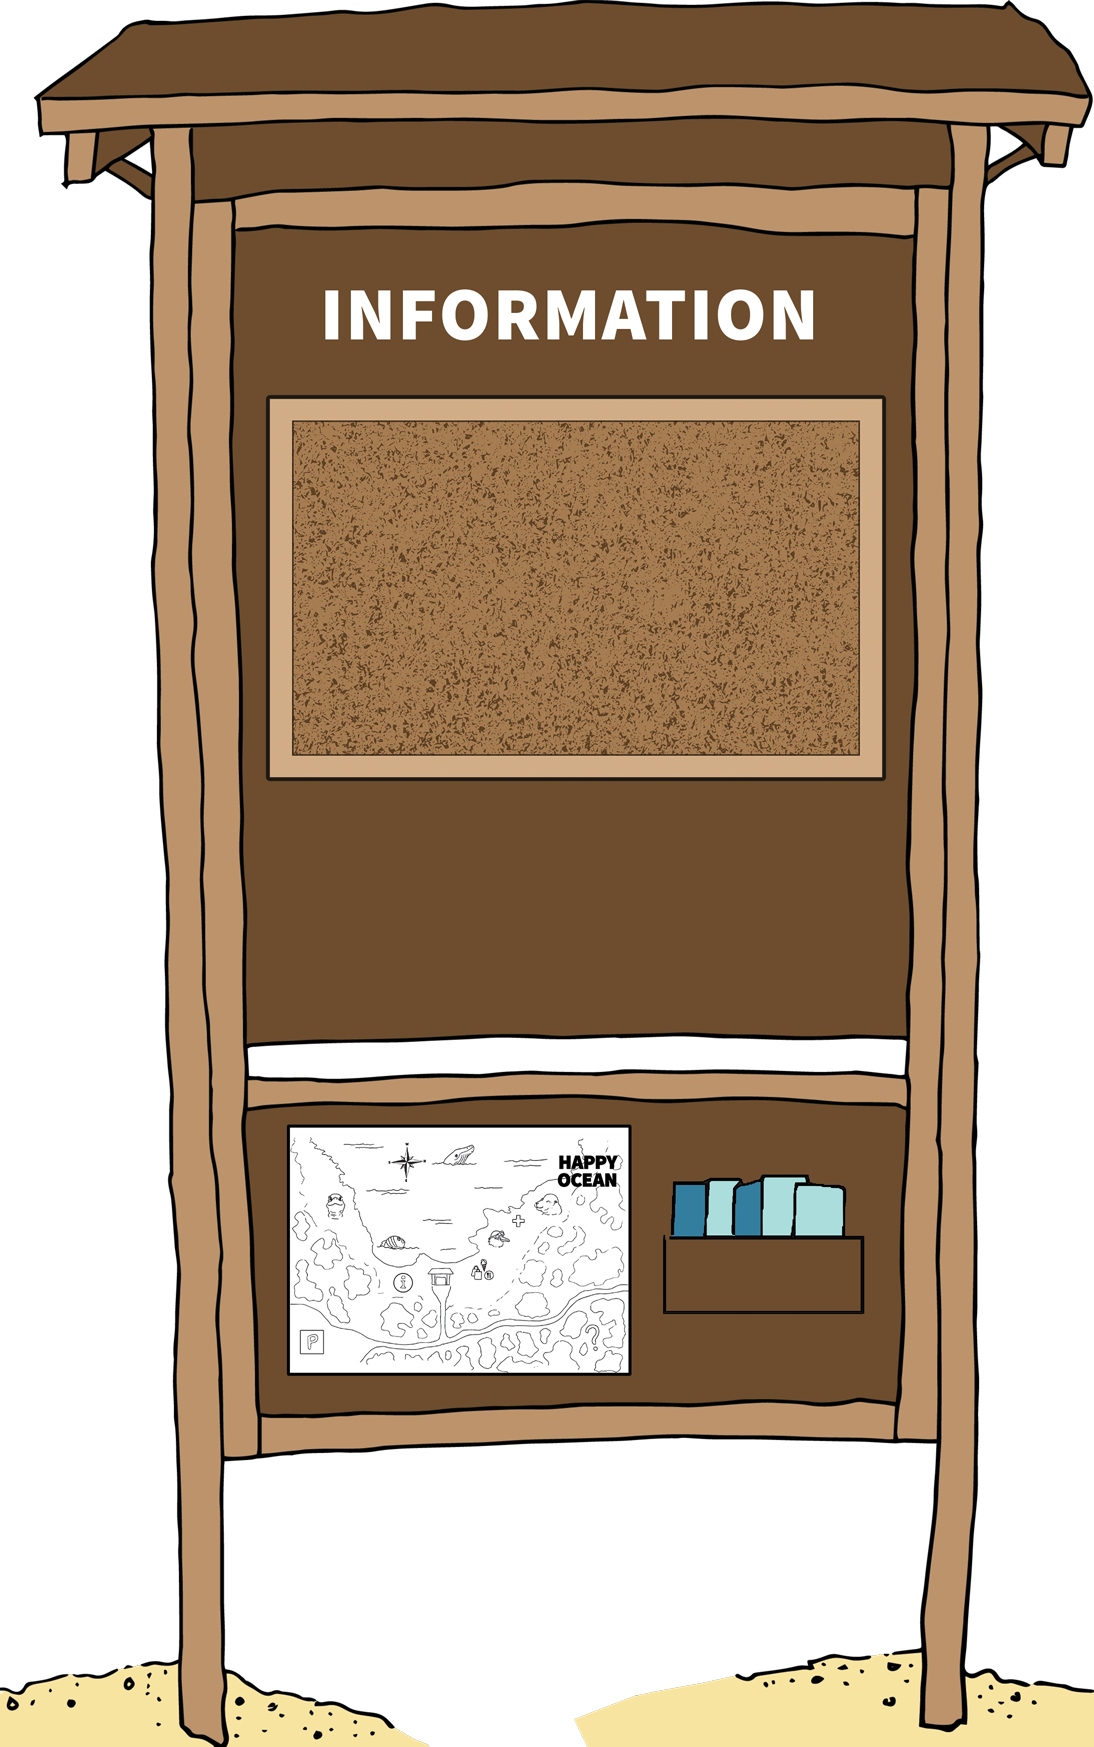
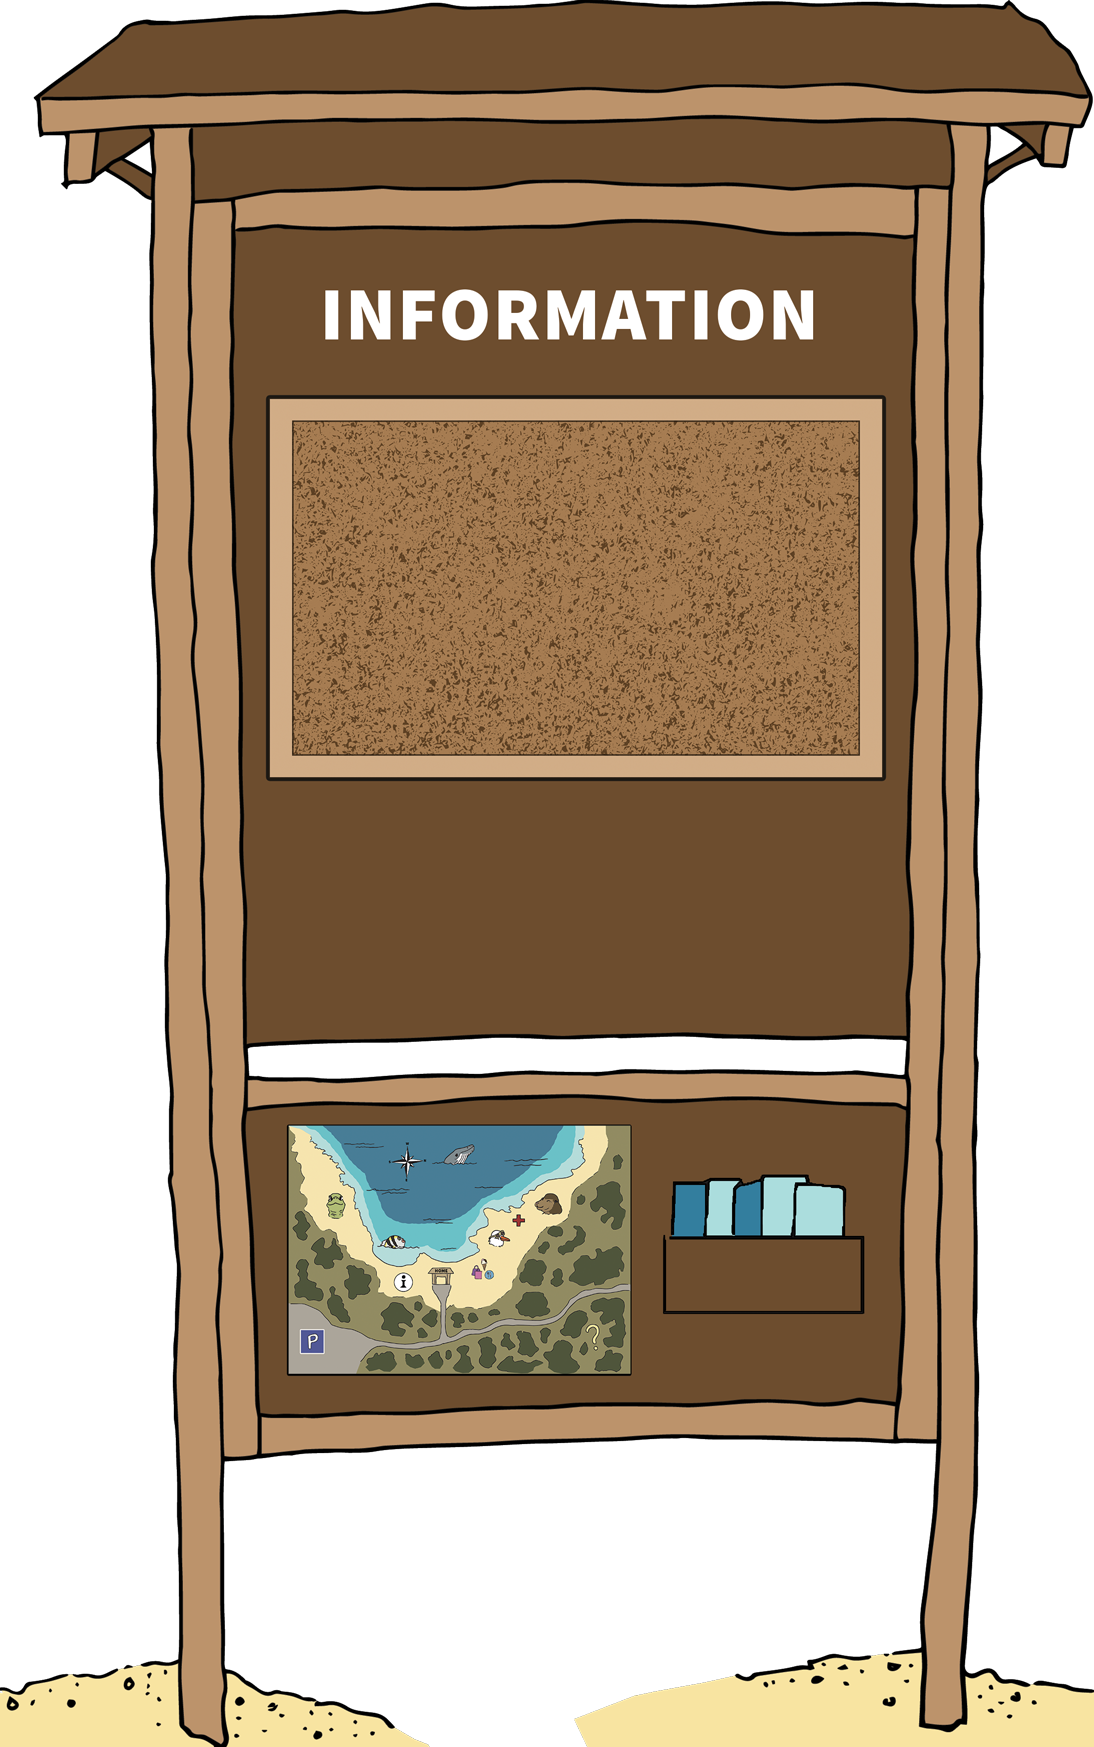
Updates

Changed region(s): [[0.2486, 0.6182, 0.5905, 0.8037]]

diff --git a/index.html b/index.html
@@ -16,35 +16,75 @@
 		</figure>			
 		</div>		
 			<main id="home" class="home">
-				<nav id="mapopen" class="nav">
-					<figure id="open" class="map-icon">
-						<img src="img/map-icon.png" alt="map icon">
-					</figure>
-				</nav>		
-				<div id="mapNav" class="sidenav">
-					<a href="javascript:void(0)" id="closebtn">&times;</a>
-					<ul id="list" class="map-list">
-						<li><a href="index.html">HOME</a></li>
-						<li id="about"><a href="javascript:void(0)">ABOUT</a></li>
-						<li><a href="resources.html">INFO</a></li>
-						<li><a href="shop.html">SHOP</a></li>
-						<li>BEACH CLEANUP
-							<ul>
-								<li><a href="albatross.html">ALBATROSS</a></li>
-								<li><a href="#">SEA LION</a></li>
-								<li><a href="#">SEA TURTLE</a></li>
-								<li><a href="#">FISH</a></li>
-								<li><a href="#">WHALE</a></li>
-							</ul>
-						</li>
-					</ul>				
+			<nav id="mapopen" class="nav">
+				<figure id="open" class="map-icon">
+					<img src="img/map-icon.png" alt="map icon">
+				</figure>
+			</nav>		
+			<div id="mapNav" class="sidenav">
+				<a href="javascript:void(0)" id="closebtn">&times;</a>
+				<ul id="list" class="map-list">
+					<li><a href="home.html">HOME</a></li>
+					<li id="about"><a href="javascript:void(0)">ABOUT</a></li>
+					<li><a href="info.html">INFO</a></li>
+					<li><a href="shop.html">SHOP</a></li>
+					<p>BEACH CLEANUP</p>
+					<li id="albatrossMapNav"><a href="albatross.html">ALBATROSS</a></li>
+					<li id="sealionMapNav"><a href="#">SEA LION</a></li>
+					<li><a href="#">SEA TURTLE</a></li>
+					<li><a href="#">FISH</a></li>
+					<li><a href="#">WHALE</a></li>
+					<br>
+					<p>(You can also click or tap the icons on the map to navigate.)</p>
+				</ul>	
+<!-- MAP AREAS -->
+			<a href="albatross.html">
+				<div id="albatrossOnMap" class="albatross-map">
 				</div>
+			</a>
+			<a href="#">
+				<div id="sealionOnMap" class="sealion-map">
+				</div>
+			</a>						
+			</div>
+			<a href="#">
+				<div id="seaturtleOnMap" class="seaturtle-map">
+				</div>
+			</a>						
+			</div>
+			<a href="#">
+				<div id="fishOnMap" class="fish-map">
+				</div>
+			</a>						
+			</div>	
+			<a href="#">
+				<div id="whaleOnMap" class="whale-map">
+				</div>
+			</a>						
+			</div>
+			<a href="shop.html">
+				<div id="shopOnMap" class="shop-map">
+				</div>
+			</a>						
+			</div>
+			<a href="info.html">
+				<div id="infoOnMap" class="info-map">
+				</div>
+			</a>						
+			</div>
+			<a href="index.html">
+				<div id="homeOnMap" class="home-map">
+				</div>
+			</a>						
+			</div>
+			
+<!-- ABOUT BROCHURE -->
 				<div id="brochure" class="brochure">
 					<a href="javascript:void(0)" id="aboutclosebtn">&times;</a>	
 					<ul id="aboutlist" class="about-list">
 						<li><a href="javascript:void(0)" id="revealmap">BACK TO MAP</a></li>
 					</ul>	
-				</div>
+				</div>				
 				<section class="centered">
 					<figure>
 						<img class="mascots" src="img/mascots.png" alt="mascots">

diff --git a/albatross.html b/albatross.html
@@ -12,34 +12,69 @@
 
 	<body>
 		<main id="albatrossBackground" class="albatross">
-			<div id="popup" title="Uh-oh!">
-				<p>What happened? Help bring color back to Happy Ocean by cleaning up the beach! Click on pieces of trash you find and drag them to your Happy Ocean tote bag.</p> 
-				<p>To play again, click on the <i class="fas fa-recycle"></i> logo!</p>
-				<p><em>A happy ocean is a clean ocean!</em></p>
-			</div>			
-			<nav id="mapopen" class="nav" onclick="openNav()">
+			<nav id="mapopen" class="nav">
 				<figure id="open" class="map-icon">
 					<img src="img/map-icon.png" alt="map icon">
 				</figure>
 			</nav>		
 			<div id="mapNav" class="sidenav">
-				<a href="javascript:void(0)" id="closebtn" onclick="closeNav()">&times;</a>
+				<a href="javascript:void(0)" id="closebtn">&times;</a>
 				<ul id="list" class="map-list">
-					<li><a href="index.html">HOME</a></li>
+					<li><a href="home.html">HOME</a></li>
 					<li id="about"><a href="javascript:void(0)">ABOUT</a></li>
-					<li><a href="resources.html">INFO</a></li>
+					<li><a href="info.html">INFO</a></li>
 					<li><a href="shop.html">SHOP</a></li>
-					<li>BEACH CLEANUP
-						<ul>
-							<li><a href="albatross.html">ALBATROSS</a></li>
-							<li><a href="#">SEA LION</a></li>
-							<li><a href="#">SEA TURTLE</a></li>
-							<li><a href="#">FISH</a></li>
-							<li><a href="#">WHALE</a></li>
-						</ul>
-					</li>
-				</ul>				
+					<p>BEACH CLEANUP</p>
+					<li id="albatrossMapNav"><a href="albatross.html">ALBATROSS</a></li>
+					<li id="sealionMapNav"><a href="#">SEA LION</a></li>
+					<li><a href="#">SEA TURTLE</a></li>
+					<li><a href="#">FISH</a></li>
+					<li><a href="#">WHALE</a></li>
+					<br>
+					<p>(You can also click or tap the icons on the map to navigate.)</p>
+				</ul>	
+<!-- MAP AREAS -->
+			<a href="albatross.html">
+				<div id="albatrossOnMap" class="albatross-map">
+				</div>
+			</a>
+			<a href="#">
+				<div id="sealionOnMap" class="sealion-map">
+				</div>
+			</a>						
 			</div>
+			<a href="#">
+				<div id="seaturtleOnMap" class="seaturtle-map">
+				</div>
+			</a>						
+			</div>
+			<a href="#">
+				<div id="fishOnMap" class="fish-map">
+				</div>
+			</a>						
+			</div>	
+			<a href="#">
+				<div id="whaleOnMap" class="whale-map">
+				</div>
+			</a>						
+			</div>
+			<a href="shop.html">
+				<div id="shopOnMap" class="shop-map">
+				</div>
+			</a>						
+			</div>
+			<a href="info.html">
+				<div id="infoOnMap" class="info-map">
+				</div>
+			</a>						
+			</div>
+			<a href="index.html">
+				<div id="homeOnMap" class="home-map">
+				</div>
+			</a>						
+			</div>
+			
+<!-- ABOUT BROCHURE -->
 			<div id="brochure" class="brochure">
 				<a href="javascript:void(0)" id="aboutclosebtn">&times;</a>	
 				<ul id="aboutlist" class="about-list">

diff --git a/home.html b/home.html
@@ -5,11 +5,11 @@
 		<meta charset="utf-8">
 	    <meta name="viewport" content="width=device-width, initial-scale=1">
 	    <title>Happy Ocean</title>
-	    <link rel="stylesheet" href="css/style.css">  	
+	    <link rel="stylesheet" href="css/style.css">  
+	    <link rel="stylesheet" href="css/preloading.css">        		       	
 	</head>
-
-	<body>
-		<main class="shop">
+	<body>		
+		<main id="home" class="home">
 			<nav id="mapopen" class="nav">
 				<figure id="open" class="map-icon">
 					<img src="img/map-icon.png" alt="map icon">
@@ -78,10 +78,29 @@
 				<ul id="aboutlist" class="about-list">
 					<li><a href="javascript:void(0)" id="revealmap">BACK TO MAP</a></li>
 				</ul>	
-			</div>
+			</div>				
+			<section class="centered">
+				<figure>
+					<img class="mascots" src="img/mascots.png" alt="mascots">
+					<!-- <img class="logo" src="img/happy_ocean_logo1.png" alt="Happy Ocean logo"> -->
+				</figure>
+				<figure id="fish">
+					<img src="img/fish.png" alt="Sergeant Major Fish on a Skateboard">
+				</figure>				
+			</section>
+			<figure class="turtle-animation">
+					<img id="turtleAnimation" src="img/turtle-still.png" alt="animated turtle">
+			</figure>				
+			<figure class="rightplacement">
+				<a href="albatross.html">
+					<img src="img/tothebeach.png" alt="To the Beach sign">
+				</a>	
+			</figure>					
 		</main>	
-    <script src="https://code.jquery.com/jquery-3.3.1.min.js"></script>
-    <script src="js/script.js"></script>  
+	    <script src="https://code.jquery.com/jquery-3.3.1.min.js"></script>
+	  	<script src="https://code.jquery.com/ui/1.12.1/jquery-ui.js"></script> 	
+	    <script src="js/jquery.waitforimages.js"></script>
+		<script src="js/img-preloading.js"></script>
+	    <script src="js/script.js"></script>		
 	</body>
-
 </html>

diff --git a/css/style.css b/css/style.css
@@ -315,9 +315,9 @@ main {
 /* MAP NAV */
 .sidenav, .brochure {
   position: relative;
-  display: grid;
+  /*display: grid;
   grid-template-columns: repeat(32, 1fr);
-  grid-auto-rows: minmax(25px, 50px);
+  grid-auto-rows: minmax(25px, 50px); */
   height: 100%;
   width: 0;
   position: fixed;
@@ -332,10 +332,33 @@ main {
   overflow-x: hidden;
   transition: 0.5s; }
 
+.albatross-map, .sealion-map, .seaturtle-map, .fish-map, .whale-map, .home-map, .info-map, .shop-map, .secret-map {
+  width: 100px;
+  height: 100px;
+  position: absolute; }
+
+.albatross-map {
+  top: 435px;
+  left: 955px; }
+
+.sealion-map {
+  top: 300px;
+  left: 1150px; }
+
+.map-lit {
+  background-color: yellow;
+  opacity: 0.3;
+  border-radius: 50%;
+  display: inline-block; }
+
 .map-list {
-  grid-column: 28 / 31;
-  grid-row: 3;
-  display: none; }
+  position: absolute;
+  width: 150px;
+  right: 125px;
+  top: 100px;
+  display: none;
+  list-style-type: none;
+  margin: 1rem; }
 
 #aboutlist {
   display: none; }
@@ -346,20 +369,20 @@ main {
   right: 120px; }
 
 .map-list a, .about-list a {
-  text-decoration: none;
   font-size: 1.25rem;
-  color: silver;
+  color: #3d7494;
   display: block;
   transition: 0.3s; }
 
 .map-list a:hover, .about-list a {
-  color: white; }
+  color: #8dcbf0; }
 
 #closebtn, #aboutclosebtn {
   position: absolute;
   top: 80px;
   right: 120px;
-  font-size: 2rem; }
+  font-size: 2rem;
+  color: #3d7494; }
 
 .brochure {
   background-image: url(../img/about-brochure.png); }

diff --git a/css/preloading.css b/css/preloading.css
@@ -14,10 +14,12 @@
 	    url(../img/about-brochure.png) no-repeat -9999px -9999px,	    
 	    url(../img/resources.png) no-repeat -9999px -9999px,
 	    url(../img/boardwalk.png) no-repeat -9999px -9999px,
-	    url(../img/info.png) no-repeat -9999px -9999px,	    	    
+	    url(../img/info.png) no-repeat -9999px -9999px,	
+	    url(../img/otter-1.png) no-repeat -9999px -9999px,	        	    
 	    url(../img/trash-straws.png) no-repeat -9999px -9999px,
 	    url(../img/bottle.png) no-repeat -9999px -9999px,	
 	    url(../img/bottlecaps.png) no-repeat -9999px -9999px,
+	    url(../img/bulletin-board.png) no-repeat -9999px -9999px,	    
 	    url(../img/wrappers.png) no-repeat -9999px -9999px,	    
 	    url(../img/shells-1.png) no-repeat -9999px -9999px,
 	    url(../img/shells-1-colored.png) no-repeat -9999px -9999px,	
@@ -27,7 +29,7 @@
 	    url(../img/tote.png) no-repeat -9999px -9999px,   
 	    url(../img/net.png) no-repeat -9999px -9999px,
 	    url(../img/styrofoam.png) no-repeat -9999px -9999px,
-	    url(../img/small-plastics.png) no-repeat -9999px -9999px,         	
+	    url(../img/small-plastics.png) no-repeat -9999px -9999px,	
 	    url(../img/beachball.png) no-repeat -9999px -9999px,
 	    url(../img/beachball-colored.png) no-repeat -9999px -9999px,	
 	    url(../img/albatross.png) no-repeat -9999px -9999px,

diff --git a/info.html b/info.html
@@ -9,7 +9,7 @@
 	</head>
 
 	<body>
-		<main class="shop">
+		<main class="resources">
 			<nav id="mapopen" class="nav">
 				<figure id="open" class="map-icon">
 					<img src="img/map-icon.png" alt="map icon">
@@ -79,6 +79,11 @@
 					<li><a href="javascript:void(0)" id="revealmap">BACK TO MAP</a></li>
 				</ul>	
 			</div>
+			<figure class="infoboard">
+				<a href="#">
+					<img id="info" src="img/info.png" alt="Resource Board">
+				</a>
+			</figure>
 		</main>	
     <script src="https://code.jquery.com/jquery-3.3.1.min.js"></script>
     <script src="js/script.js"></script>  

diff --git a/js/script.js b/js/script.js
@@ -60,6 +60,25 @@ function turtleGif() {
 }
 
 turtleChange();
+
+
+//Map areas
+	$("#albatrossMapNav").hover(function() {
+		$("#albatrossOnMap").toggleClass("map-lit");
+	});
+
+	$("#albatrossOnMap").hover(function() {
+		$("#albatrossOnMap").toggleClass("map-lit");
+	});
+
+	$("#sealionMapNav").hover(function() {
+		$("#sealionOnMap").toggleClass("map-lit");
+	});		
+
+	$("#sealionOnMap").hover(function() {
+		$("#sealionOnMap").toggleClass("map-lit");
+	});		
+
 });
 
 
